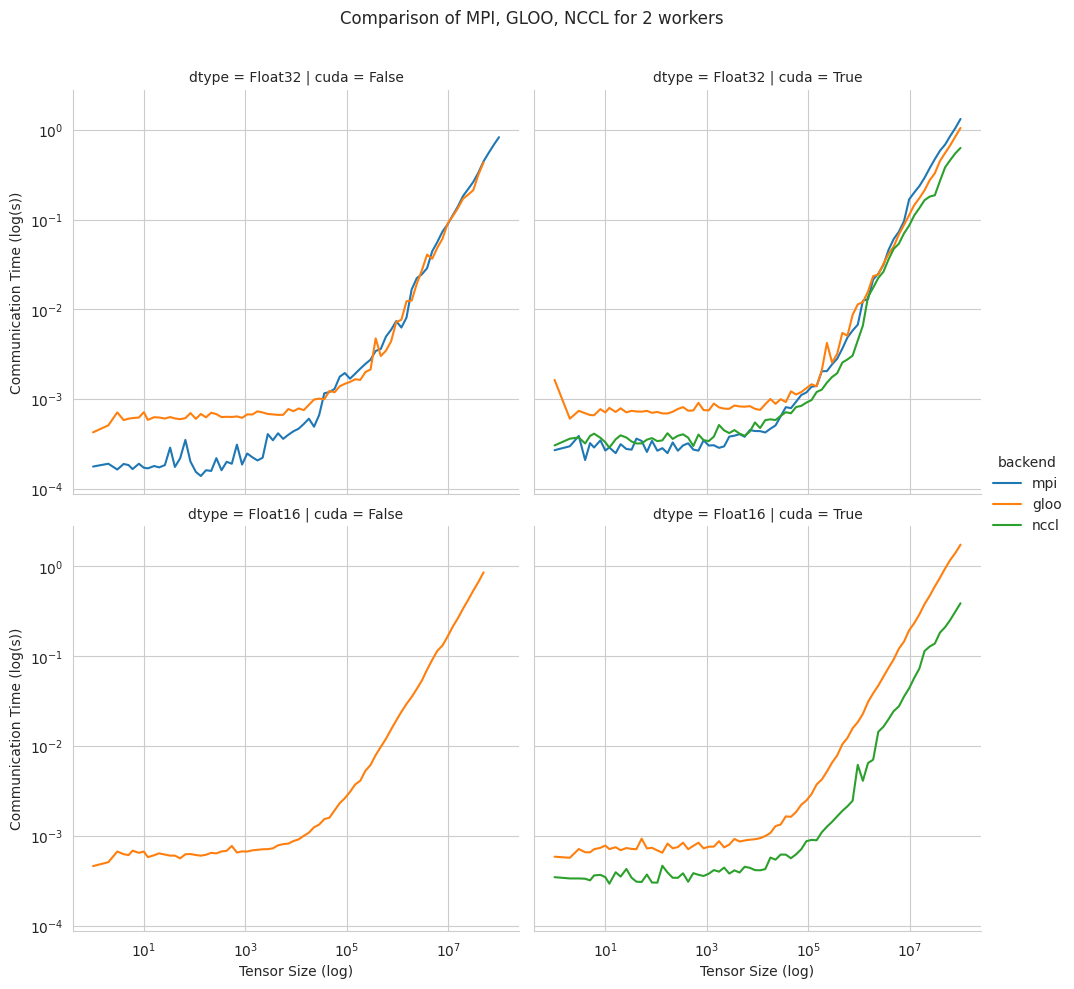
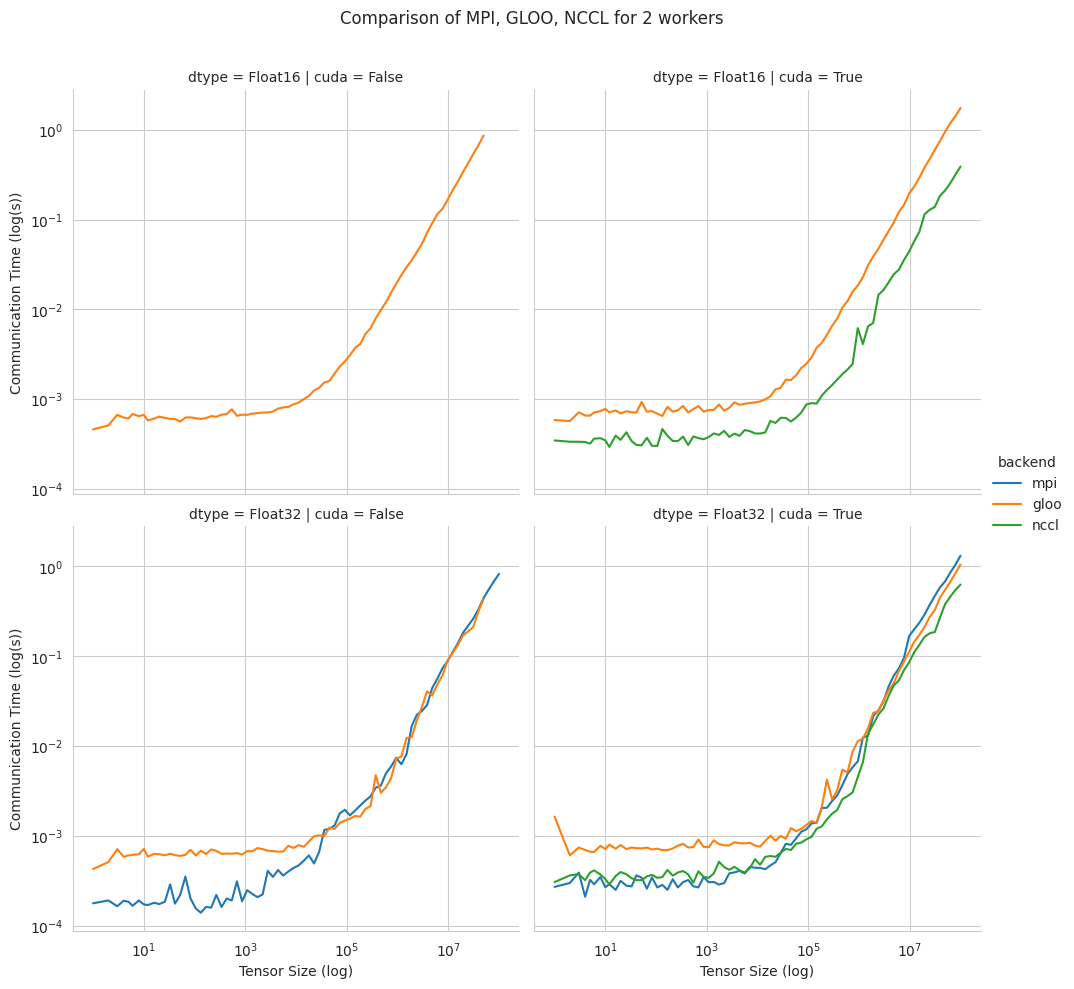
Add graphs and code to generate them

diff --git a/backend_benchmark/generate_plots.py b/backend_benchmark/generate_plots.py
@@ -9,10 +9,10 @@ import click
 
 # Files needed to generate the plots
 RESULT_FILES = {
-    'result_val_tensor_size @ {}.json': "tensor_size",
-    'result_val_cuda @ {}.json': "cuda",
-    'result_val_dtype @ {}.json': "dtype",
-    'result_val_avg_time @ {}.json': "avg_time"
+    "result_val_tensor_size @ {}.json": "tensor_size",
+    "result_val_cuda @ {}.json": "cuda",
+    "result_val_dtype @ {}.json": "dtype",
+    "result_val_avg_time @ {}.json": "avg_time",
 }
 
 
@@ -43,7 +43,7 @@ def read_values_from_json(json_list):
     Returns:
         list[float]: The list of values, converted to float
     """
-    return [float(x['value']) for x in json_list]
+    return [float(x["value"]) for x in json_list]
 
 
 def extract_values_for_worker(zip_file, worker):
@@ -59,7 +59,9 @@ def extract_values_for_worker(zip_file, worker):
     result = {}
     values_len = -1
     for k, v in RESULT_FILES.items():
-        values = read_values_from_json(read_json_file_from_zip(zip_file, k.format(worker)))
+        values = read_values_from_json(
+            read_json_file_from_zip(zip_file, k.format(worker))
+        )
 
         # Make sure all lengths are the same
         if values_len == -1:
@@ -73,7 +75,11 @@ def extract_values_for_worker(zip_file, worker):
 
     result = pd.DataFrame(result)
 
-    result = result.groupby(["tensor_size", "cuda", "dtype", "worker"])["avg_time"].mean().reset_index()
+    result = (
+        result.groupby(["tensor_size", "cuda", "dtype", "worker"])["avg_time"]
+        .mean()
+        .reset_index()
+    )
     return result
 
 
@@ -87,15 +93,15 @@ def parse_result_zip(filename):
         pd.DataFrame: Containing all the measurements, for all workers
     """
     zip_file = ZipFile(filename)
-    num_workers = int(filename.split('.')[-2].split('-')[-1])
+    num_workers = int(filename.split(".")[-2].split("-")[-1])
 
     dfs = []
     for i in range(num_workers):
         dfs.append(extract_values_for_worker(zip_file, i))
 
     df = pd.concat(dfs)
-    df = df.groupby(['tensor_size', 'cuda', 'dtype'])['avg_time'].mean().reset_index()
-    df['num_workers'] = num_workers
+    df = df.groupby(["tensor_size", "cuda", "dtype"])["avg_time"].mean().reset_index()
+    df["num_workers"] = num_workers
     return df
 
 
@@ -119,8 +125,8 @@ def get_backend_results(backend, directory, wildcard="metrics_{backend}-*.zip"):
 
     df = pd.concat(dfs)
     df["backend"] = backend
-    df['cuda'] = df['cuda'].apply(bool)
-    df['dtype'] = df['dtype'].apply(lambda x: "Float32" if x == 32 else "Float16")
+    df["cuda"] = df["cuda"].apply(bool)
+    df["dtype"] = df["dtype"].apply(lambda x: "Float32" if x == 32 else "Float16")
     return df
 
 
@@ -129,18 +135,32 @@ def generate_backend_analysis_plot(backend, directory, by="tensor"):
 
     workers = sorted(df["num_workers"].unique())
     if by == "workers":
-        row_order = sorted(df['dtype'].unique())
-        col_order = sorted(df['cuda'].unique())
-        g = sns.FacetGrid(row="dtype", col="cuda", hue='num_workers',
-                          data=df, height=5, sharex=True,
-                          row_order=row_order, col_order=col_order)
+        row_order = sorted(df["dtype"].unique())
+        col_order = sorted(df["cuda"].unique())
+        g = sns.FacetGrid(
+            row="dtype",
+            col="cuda",
+            hue="num_workers",
+            data=df,
+            height=5,
+            sharex=True,
+            row_order=row_order,
+            col_order=col_order,
+        )
         g.fig.suptitle("{} by number of workers".format(backend.upper()), size=16)
 
     elif by == "tensor":
-        row_order = sorted(df['dtype'].unique())
-        g = sns.FacetGrid(row="dtype", col="num_workers", hue='cuda',
-                          data=df, height=5, sharex=True,
-                          row_order=row_order, col_order=workers)
+        row_order = sorted(df["dtype"].unique())
+        g = sns.FacetGrid(
+            row="dtype",
+            col="num_workers",
+            hue="cuda",
+            data=df,
+            height=5,
+            sharex=True,
+            row_order=row_order,
+            col_order=workers,
+        )
         g.fig.suptitle("{} by tensor type".format(backend.upper()), size=16)
 
     else:
@@ -155,11 +175,13 @@ def generate_backend_analysis_plot(backend, directory, by="tensor"):
             ax.set_xscale("log")
             ax.set_yscale("log")
 
-    g.fig.subplots_adjust(top=.9)
+    g.fig.subplots_adjust(top=0.9)
     return g
 
 
-def generate_backend_comparison_plot(backends, directory, by="tensor", num_workers=0, cuda=False):
+def generate_backend_comparison_plot(
+    backends, directory, by="tensor", num_workers=0, cuda=False
+):
     dfs = []
     for backend in backends:
         df = get_backend_results(backend, directory)
@@ -168,23 +190,45 @@ def generate_backend_comparison_plot(backends, directory, by="tensor", num_worke
     df = pd.concat(dfs)
     workers = sorted(df["num_workers"].unique())
 
+    col_order = sorted(df["cuda"].unique())
+    row_order = sorted(df["dtype"].unique())
     if by == "tensor":
-        df = df[df['num_workers'] == num_workers]
-        g = sns.FacetGrid(row="dtype", col="cuda", hue='backend', data=df, height=5, sharex=True,
-                          row_order=['Float32', 'Float16'], col_order=[False, True])
-        g.fig.suptitle("Comparison of {} for {} workers".format(", ".join([b.upper() for b in backends]),
-                                                                num_workers))
+        df = df[df["num_workers"] == num_workers]
+        g = sns.FacetGrid(
+            row="dtype",
+            col="cuda",
+            hue="backend",
+            data=df,
+            height=5,
+            sharex=True,
+            row_order=row_order,
+            col_order=col_order,
+        )
+        g.fig.suptitle(
+            "Comparison of {} for {} workers".format(
+                ", ".join([b.upper() for b in backends]), num_workers
+            )
+        )
     elif by == "workers":
-        df = df[df['num_workers'].isin(workers)]
-        df = df[df['cuda'] == cuda]
+        df = df[df["num_workers"].isin(workers)]
+        df = df[df["cuda"] == cuda]
 
-        g = sns.FacetGrid(row="dtype", col="num_workers", hue='backend', data=df,
-                          height=5, sharex=True, row_order=['Float32', 'Float16'],
-                          col_order=workers)
-        g.fig.suptitle("Comparison of {} for {} workers {}".format(
-            ", ".join([b.upper() for b in backends]),
-            workers,
-            ", CUDA tensors" if cuda else "")
+        g = sns.FacetGrid(
+            row="dtype",
+            col="num_workers",
+            hue="backend",
+            data=df,
+            height=5,
+            sharex=True,
+            row_order=row_order,
+            col_order=workers,
+        )
+        g.fig.suptitle(
+            "Comparison of {} for {} workers {}".format(
+                ", ".join([b.upper() for b in backends]),
+                workers,
+                ", CUDA tensors" if cuda else "",
+            )
         )
 
     g = g.map(sns.lineplot, "tensor_size", "avg_time")
@@ -196,20 +240,29 @@ def generate_backend_comparison_plot(backends, directory, by="tensor", num_worke
             ax.set_xscale("log")
             ax.set_yscale("log")
 
-    g.fig.subplots_adjust(top=.9)
+    g.fig.subplots_adjust(top=0.9)
     return g
 
 
 @click.command()
-@click.option("--backends", default="mpi,gloo,nccl", type=str, help="Coma separated backend list")
-@click.option("--source-dir", "-s", type=str, help="Source directory containing results archives")
+@click.option(
+    "--backends", default="mpi,gloo,nccl", type=str, help="Coma separated backend list"
+)
+@click.option(
+    "--source-dir", "-s", type=str, help="Source directory containing results archives"
+)
 @click.option("--dest-dir", "-d", type=str, help="Destination directory for graphs")
-@click.option("--num-workers", default="2,4,8", type=str, help="Number of workers used for experiments (coma separated)")
+@click.option(
+    "--num-workers",
+    default="2,4,8",
+    type=str,
+    help="Number of workers used for experiments (coma separated)",
+)
 def main(backends, source_dir, dest_dir, num_workers):
     sns.set_style("whitegrid")
     click.echo("Generating all plots for backends {}".format(backends))
 
-    num_workers = [int(x) for x in num_workers.split(',')]
+    num_workers = [int(x) for x in num_workers.split(",")]
     backends = backends.split(",")
 
     for b in backends:
@@ -217,15 +270,31 @@ def main(backends, source_dir, dest_dir, num_workers):
         g_workers = generate_backend_analysis_plot(b, source_dir, by="workers")
 
         g_tensor.savefig(os.path.join(dest_dir, "{}_analysis_by_tensor.png".format(b)))
-        g_workers.savefig(os.path.join(dest_dir, "{}_analysis_by_workers.png".format(b)))
+        g_workers.savefig(
+            os.path.join(dest_dir, "{}_analysis_by_workers.png".format(b))
+        )
 
     for n in sorted(num_workers):
-        g = generate_backend_comparison_plot(backends, source_dir, by="tensor", num_workers=n)
-        g.savefig(os.path.join(dest_dir, "backends_comparison_by_tensor_{}_workers.png".format(n)))
+        g = generate_backend_comparison_plot(
+            backends, source_dir, by="tensor", num_workers=n
+        )
+        g.savefig(
+            os.path.join(
+                dest_dir, "backends_comparison_by_tensor_{}_workers.png".format(n)
+            )
+        )
 
     for cuda in [True, False]:
-        g = generate_backend_comparison_plot(backends, source_dir, by="workers", cuda=cuda)
-        g.savefig(os.path.join(dest_dir, "backends_comparison_by_workers" + ("_CUDA" if cuda else "") + ".png"))
+        g = generate_backend_comparison_plot(
+            backends, source_dir, by="workers", cuda=cuda
+        )
+        g.savefig(
+            os.path.join(
+                dest_dir,
+                "backends_comparison_by_workers" + ("_CUDA" if cuda else "") + ".png",
+            )
+        )
+
 
 if __name__ == "__main__":
     main()
